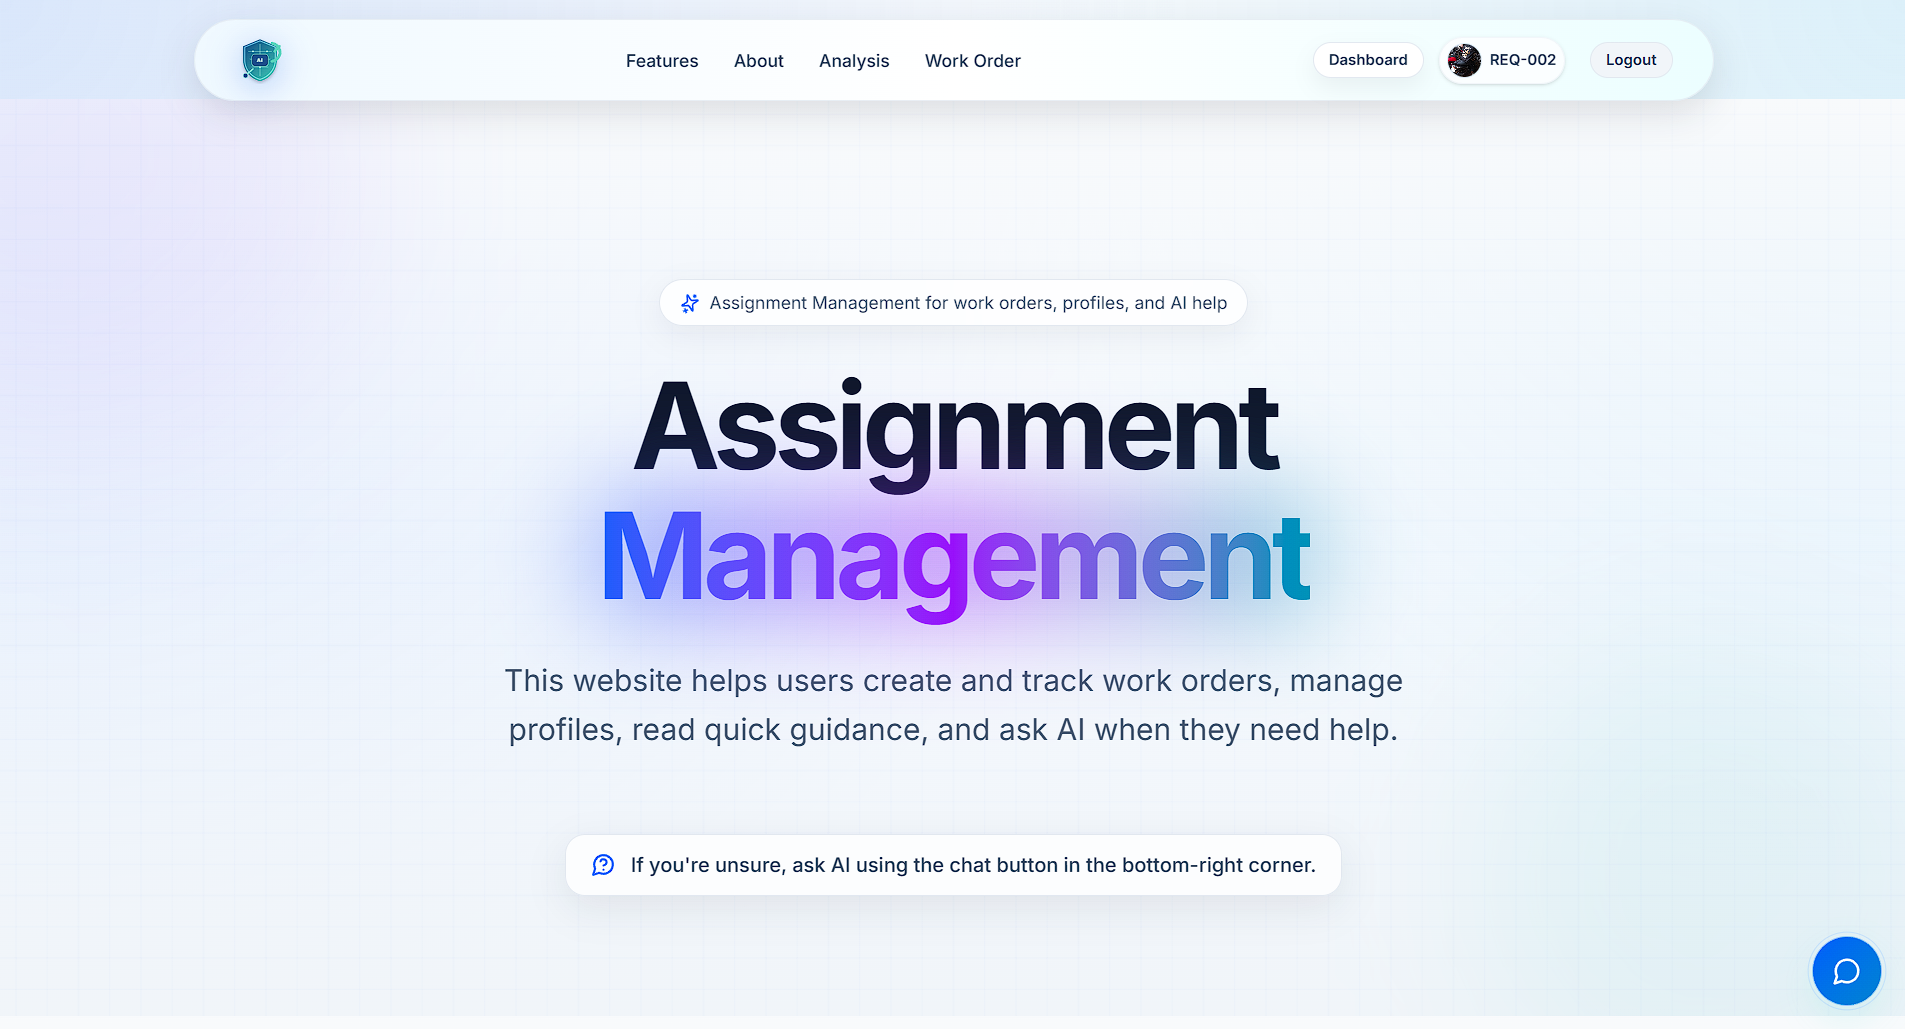
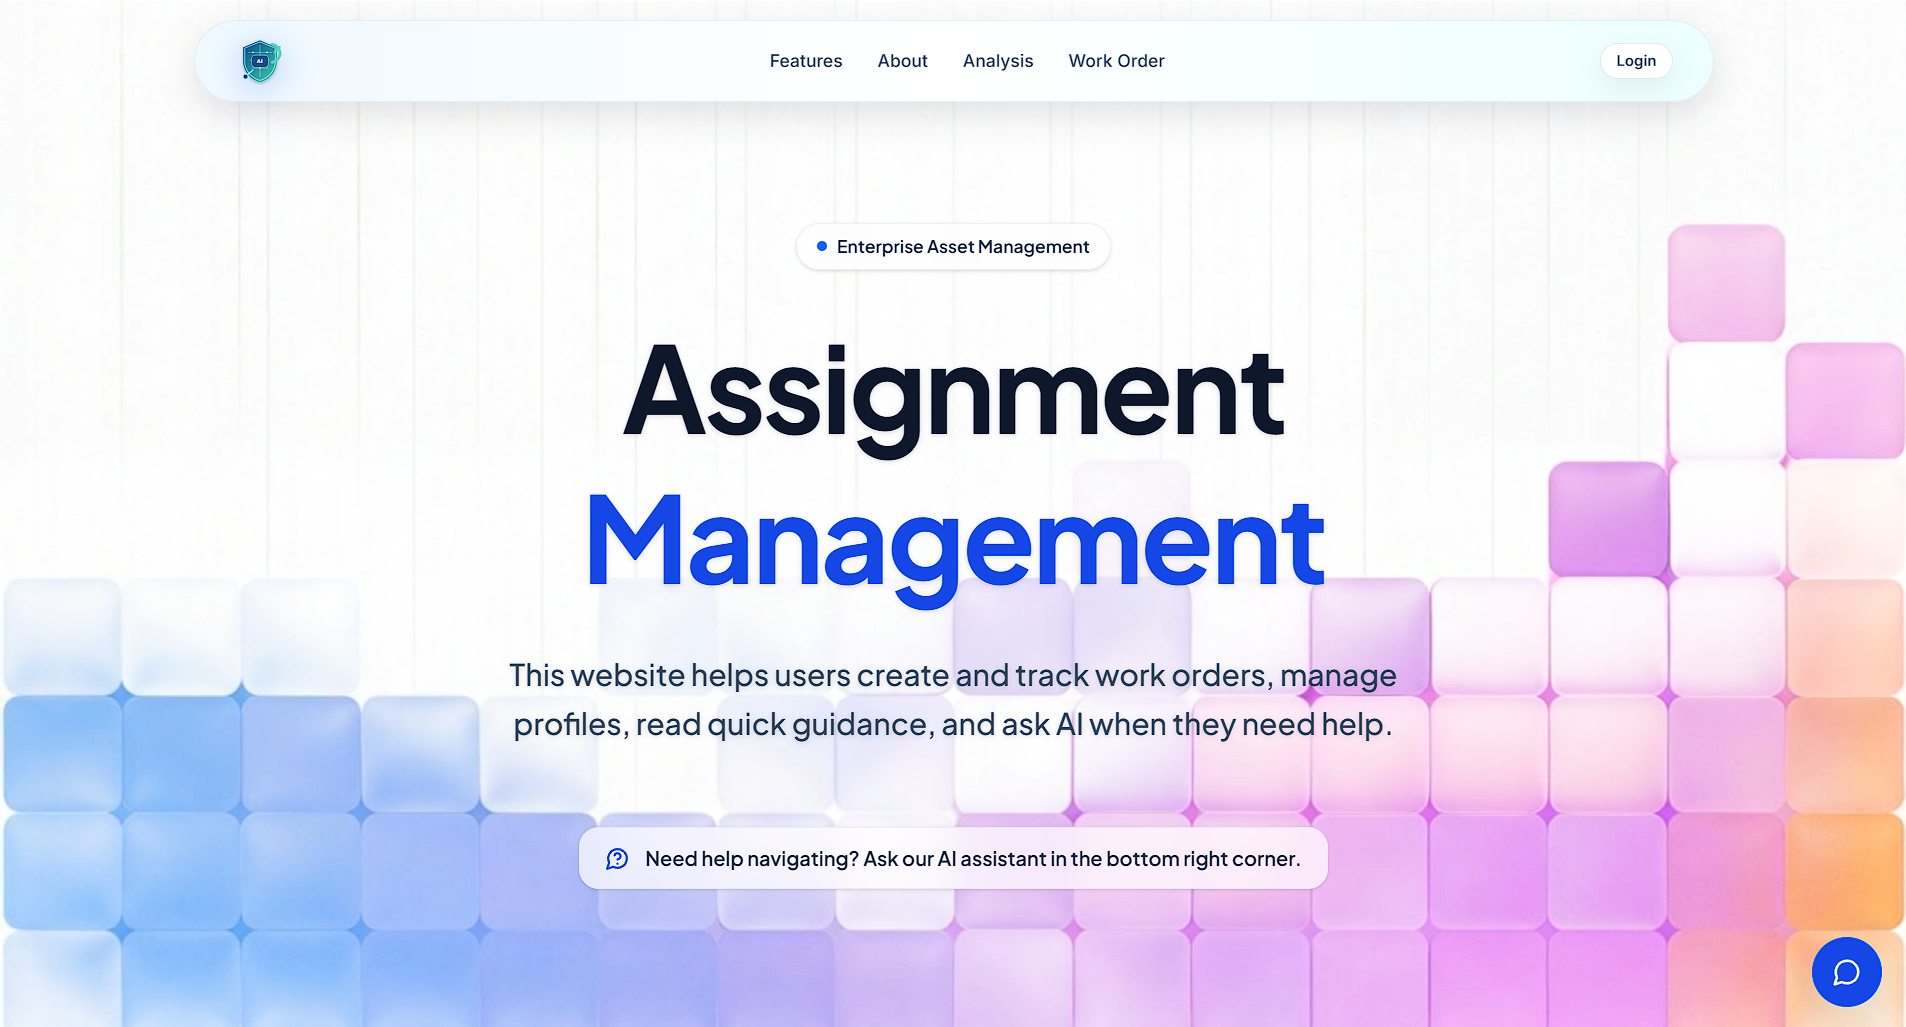
update sertifikat & elevra section

diff --git a/src/app/page.tsx b/src/app/page.tsx
@@ -2,7 +2,7 @@
 
 import { useState, useEffect } from "react";
 import Image from "next/image";
-import { Menu, X, ArrowRight, Zap, Sparkles, Plus, Cloud, Mail } from "lucide-react";
+import { Menu, X, ArrowRight, Zap, Sparkles, Plus, Cloud, Mail, FileText } from "lucide-react";
 import ScrollRevealText from "../components/ScrollRevealText";
 
 interface Project {
@@ -12,6 +12,13 @@ interface Project {
   detailImage?: string;
   tags: string[];
   description: string;
+}
+
+interface Certificate {
+  id: number;
+  title: string;
+  file: string;
+  type: "image" | "pdf";
 }
 
 const projects: Project[] = [
@@ -227,12 +234,42 @@ const cloudProjects: Project[] = [
   }
 ];
 
+const certificates: Certificate[] = [
+  { id: 1, title: "Finalis Web Programming - SMART TELKOM", file: "/Sertifikat/SMART TELKOM FINALIS_Web Programing.jpg", type: "image" },
+  { id: 2, title: "Sefest Web Design", file: "/Sertifikat/Sefest Web Design-Radhiyya Alea Akbar.png", type: "image" },
+  { id: 3, title: "Juara 1 Pionering Tegak Tangguh", file: "/Sertifikat/Juara1PioneringLombaTegakTangguh.PNG", type: "image" },
+  { id: 4, title: "Lomba Baris Berbaris Pandawa - Juara Perintis 2", file: "/Sertifikat/Lomba Baris Berbaris Pandawa - Juara Perintis 2.png", type: "image" },
+  { id: 5, title: "Lomba Baris Berbaris Sejati - Juara Bina 2", file: "/Sertifikat/Lomba Baris Berbaris Sejati- Juara Bina 2.png", type: "image" },
+  { id: 6, title: "Olimpiade Informatika OSN 2025", file: "/Sertifikat/Olimpiade_Informatika - OSN 2025_page-0001.jpg", type: "image" },
+  { id: 7, title: "Olimpiade Informatika OSSN 2025", file: "/Sertifikat/Olimpiade_Informatika - OSSN 2025_page-0001.jpg", type: "image" },
+  { id: 8, title: "Olimpiade Informatika KOMPAS 2025", file: "/Sertifikat/Olimpiade_Informatika - KOMPAS 2025_page-0001.jpg", type: "image" },
+  { id: 9, title: "Olimpiade PKN OSN 2025", file: "/Sertifikat/Olimpiade_PKN - OSSN 2025 (1)_page-0001.jpg", type: "image" },
+  { id: 10, title: "Olimpiade PKN KOMPAS 2025", file: "/Sertifikat/Olimpiade_PKN - KOMPAS 2025_page-0001 (2).jpg", type: "image" },
+  { id: 11, title: "Olimpiade Sejarah OSN 2025", file: "/Sertifikat/Olimpiade_Sejarah - OSN 2025_page-0001.jpg", type: "image" },
+  { id: 12, title: "Olimpiade Sejarah KOMPAS 2025", file: "/Sertifikat/Olimpiade_Sejarah - KOMPAS 2025_page-0001.jpg", type: "image" },
+  { id: 13, title: "Coursera: AWS S3 Basic", file: "/Sertifikat/Coursera Aws S3 Basic Certificates.jpg", type: "image" },
+  { id: 14, title: "Coursera: Build App With Google Sheets On Glide", file: "/Sertifikat/Coursera Build App With Google Sheets On Glide Certificates.jpg", type: "image" },
+  { id: 15, title: "Coursera: Build a Full Website Using Wordpress", file: "/Sertifikat/Coursera Build a Full Website Using Wordprees Certificates.jpg", type: "image" },
+  { id: 16, title: "Coursera: Google Ads", file: "/Sertifikat/Coursera Google Ads Certificates.jpg", type: "image" },
+  { id: 17, title: "Coursera: Microsoft Excel", file: "/Sertifikat/Coursera Microsoft Excel Certificates.jpg", type: "image" },
+  { id: 18, title: "Coursera: SEO Optimization", file: "/Sertifikat/Coursera SEO Optimazion Certificates.jpg", type: "image" },
+  { id: 19, title: "Pelatihan Artificial Intelligence", file: "/Sertifikat/Pelatihan Artifisial Intelegent.jpg", type: "image" },
+  { id: 20, title: "Pelatihan Cyber Security", file: "/Sertifikat/Sertifikat Attendance Pelatihan Cyber Security.pdf.png", type: "image" },
+  { id: 21, title: "Microsoft Azure", file: "/Sertifikat/Microsoft Azure Certificates.pdf", type: "pdf" },
+  { id: 22, title: "Computational Thinking", file: "/Sertifikat/Sertifikat_RADHIYYA ALEA AKBAR_Computational Thinking _ Cara Berpikir Logis untuk Mengatasi Masalah (Jenjang SMA).pdf", type: "pdf" },
+  { id: 23, title: "Dasar-Dasar Implementasi Kecerdasan Artifisial", file: "/Sertifikat/Sertifikat_RADHIYYA ALEA AKBAR_Dasar-Dasar Implementasi Kecerdasan Artifisial.pdf", type: "pdf" },
+  { id: 24, title: "Memahami Aspek Pengembangan Produk AI", file: "/Sertifikat/Sertifikat_RADHIYYA ALEA AKBAR_Memahami Aspek Pengembangan Produk AI.pdf", type: "pdf" },
+  { id: 25, title: "Wordpress Certificates", file: "/Sertifikat/Wordpress Certivicates.pdf", type: "pdf" },
+];
+
 export default function Home() {
   const [isMobileMenuOpen, setIsMobileMenuOpen] = useState(false);
   const [selectedProject, setSelectedProject] = useState<Project | null>(null);
   const [showAllProjects, setShowAllProjects] = useState(false);
   const [showAllCloud, setShowAllCloud] = useState(false);
   const [activeTab, setActiveTab] = useState<"website" | "cloud">("website");
+  const [showAllCertificates, setShowAllCertificates] = useState(false);
+  const [selectedCertificate, setSelectedCertificate] = useState<Certificate | null>(null);
 
   useEffect(() => {
     const observer = new IntersectionObserver(
@@ -249,10 +286,11 @@ export default function Home() {
 
     document.querySelectorAll(".reveal-animate").forEach((el) => observer.observe(el));
     return () => observer.disconnect();
-  }, [showAllProjects, showAllCloud, activeTab]);
+  }, [showAllProjects, showAllCloud, activeTab, showAllCertificates]);
 
   const displayedProjects = showAllProjects ? projects : projects.slice(0, 6);
   const displayedCloudProjects = showAllCloud ? cloudProjects : cloudProjects.slice(0, 6);
+  const displayedCertificates = showAllCertificates ? certificates : certificates.slice(0, 6);
 
   const techStack = [
     { name: "HTML", icon: "https://cdn.simpleicons.org/html5/E34F26" },
@@ -747,6 +785,69 @@ export default function Home() {
       </section>
 
       {/* About Me Section */}
+      {/* Certificates Section */}
+      <section id="certificates" className="relative w-full max-w-[1300px] px-6 lg:px-16 mx-auto pt-12 pb-32 flex flex-col items-center justify-center z-20">
+        <h3 className="text-2xl md:text-3xl font-playfair italic font-medium text-slate-800 mb-2 reveal-animate opacity-0 translate-y-12 transition-all duration-1000">
+          Achievements
+        </h3>
+        <h2 className="text-4xl md:text-[3.5rem] font-outfit font-medium tracking-tight text-slate-900 mb-16 reveal-animate opacity-0 translate-y-12 transition-all duration-1000 delay-[200ms]">
+          My Certificates
+        </h2>
+
+        <div className="grid grid-cols-1 md:grid-cols-2 lg:grid-cols-3 gap-8 w-full">
+          {displayedCertificates.map((cert, index) => (
+            <div 
+              key={cert.id} 
+              onClick={() => setSelectedCertificate(cert)}
+              className={`reveal-animate opacity-0 translate-y-12 transition-all duration-1000 cursor-pointer group flex flex-col`}
+              style={{ transitionDelay: `${(index % 3) * 150 + 100}ms` }}
+            >
+              <div className="relative bg-[#f6f7f9] border border-white/60 p-4 rounded-3xl shadow-[0_8px_30px_rgb(0,0,0,0.04)] transition-all duration-500 group-hover:shadow-[0_20px_40px_rgb(0,0,0,0.08)] group-hover:-translate-y-2 overflow-hidden">
+                <div className="relative w-full aspect-[4/3] rounded-2xl overflow-hidden bg-slate-200">
+                  {cert.type === "image" ? (
+                    <Image 
+                      src={cert.file} 
+                      alt={cert.title} 
+                      fill 
+                      className="object-cover transition-transform duration-700 group-hover:scale-105"
+                    />
+                  ) : (
+                    <div className="w-full h-full flex flex-col items-center justify-center bg-slate-100 group-hover:scale-105 transition-transform duration-700 text-slate-400">
+                      <FileText size={48} strokeWidth={1.5} className="mb-2 text-blue-400/70" />
+                      <span className="text-sm font-medium text-slate-500">PDF Document</span>
+                    </div>
+                  )}
+                  
+                  <div className="absolute inset-0 z-20 bg-slate-900/20 opacity-0 group-hover:opacity-100 transition-opacity duration-300 flex items-center justify-center">
+                    <div className="bg-white text-slate-900 px-6 py-3 rounded-full font-medium text-sm transform translate-y-4 opacity-0 group-hover:translate-y-0 group-hover:opacity-100 transition-all duration-300">
+                      View Certificate
+                    </div>
+                  </div>
+                </div>
+              </div>
+
+              <div className="mt-6 flex flex-col gap-2 px-2 text-center">
+                <h4 className="text-lg font-outfit font-semibold text-slate-900 group-hover:text-blue-600 transition-colors">
+                  {cert.title}
+                </h4>
+              </div>
+            </div>
+          ))}
+        </div>
+
+        {!showAllCertificates && certificates.length > 6 && (
+          <div className="mt-16 flex justify-center w-full">
+            <button 
+              onClick={() => setShowAllCertificates(true)}
+              className="reveal-animate opacity-0 translate-y-12 transition-all duration-1000 delay-[400ms] px-8 py-4 bg-slate-900 text-white rounded-full font-outfit font-medium hover:bg-blue-600 hover:shadow-[0_8px_30px_rgb(59,130,246,0.3)] hover:-translate-y-1 transition-all duration-300 flex items-center gap-2"
+            >
+              Show All
+              <ArrowRight size={18} />
+            </button>
+          </div>
+        )}
+      </section>
+
       <section id="about" className="relative w-full max-w-[1300px] px-6 lg:px-16 mx-auto pt-12 pb-32 flex flex-col items-center justify-center z-20">
         <h3 className="text-2xl md:text-3xl font-playfair italic font-medium text-slate-800 mb-2 reveal-animate opacity-0 translate-y-12 transition-all duration-1000">
           Who am i
@@ -830,6 +931,56 @@ export default function Home() {
         </div>
       </section>
 
+      {/* Elevra Promotion Section */}
+      <section id="services" className="relative w-full max-w-[1300px] px-6 lg:px-16 mx-auto pt-16 pb-32 flex flex-col items-center justify-center z-20 border-t border-slate-200/50">
+        <div className="flex flex-col-reverse lg:flex-row items-center gap-12 lg:gap-24 w-full max-w-[1100px] mx-auto">
+          
+          {/* Left: Text Promotion */}
+          <div className="w-full lg:w-[50%] reveal-animate opacity-0 translate-y-12 transition-all duration-1000 delay-[200ms] flex flex-col items-start text-left">
+            <h2 className="text-4xl md:text-5xl font-outfit font-medium tracking-tight text-slate-900 mb-6 leading-tight">
+              Bring Your Ideas to Life with <span className="font-playfair italic">Elevra Digitalera</span>
+            </h2>
+            <p className="text-[17px] md:text-lg text-slate-600 leading-relaxed font-outfit mb-10">
+              Need a professional, modern, and high-performing website? Elevra Digitalera offers premium web development services tailored to your business needs. Elevate your brand&apos;s digital presence today.
+            </p>
+            
+            <a 
+              href="https://elevra-digitalera.netlify.app/" 
+              target="_blank" 
+              rel="noopener noreferrer"
+              className="group flex items-center gap-3 px-8 py-4 bg-slate-900 text-white rounded-full font-outfit font-medium hover:bg-blue-600 hover:shadow-[0_8px_30px_rgb(59,130,246,0.3)] hover:-translate-y-1 transition-all duration-300"
+            >
+              Visit Elevra Digitalera
+              <ArrowRight size={18} className="group-hover:translate-x-1 transition-transform" />
+            </a>
+          </div>
+
+          {/* Right: Tilted Photo Frame */}
+          <div className="w-full lg:w-[50%] reveal-animate opacity-0 translate-y-12 transition-all duration-1000 delay-[400ms] lg:delay-[400ms]">
+            <a 
+              href="https://elevra-digitalera.netlify.app/"
+              target="_blank"
+              rel="noopener noreferrer"
+              className="block relative p-3 bg-white border border-slate-100 rounded-[2rem] shadow-[0_20px_50px_rgb(0,0,0,0.06)] transform rotate-3 hover:rotate-0 active:rotate-0 hover:shadow-[0_20px_50px_rgb(59,130,246,0.3)] active:shadow-[0_20px_50px_rgb(59,130,246,0.3)] transition-all duration-500 group"
+            >
+              <div className="relative p-2 border-2 border-slate-100 rounded-3xl bg-white overflow-hidden">
+                <div className="relative w-full aspect-[4/3] md:aspect-[16/10] rounded-2xl overflow-hidden bg-slate-200">
+                  <Image 
+                    src="/ELEVRA-LANDINGPAGE.png" 
+                    alt="Elevra Digitalera Landing Page" 
+                    fill 
+                    className="object-cover transition-transform duration-700 group-hover:scale-105" 
+                  />
+                  {/* Subtle Glow Overlay */}
+                  <div className="absolute inset-0 bg-blue-400/0 group-hover:bg-blue-400/10 transition-colors duration-500"></div>
+                </div>
+              </div>
+            </a>
+          </div>
+
+        </div>
+      </section>
+
       {/* Project Modal */}
       {selectedProject && (
         <div className="fixed inset-0 z-[100] flex items-center justify-center p-4">
@@ -857,6 +1008,49 @@ export default function Home() {
               </div>
               <h3 className="text-3xl sm:text-4xl font-outfit font-semibold text-slate-900 mb-6">{selectedProject.title}</h3>
               <p className="text-slate-600 text-[15px] leading-relaxed max-w-2xl">{selectedProject.description}</p>
+            </div>
+          </div>
+        </div>
+      )}
+
+      {/* Certificate Modal */}
+      {selectedCertificate && (
+        <div className="fixed inset-0 z-[100] flex items-center justify-center p-4">
+          <div className="absolute inset-0 bg-slate-900/40 backdrop-blur-sm transition-opacity" onClick={() => setSelectedCertificate(null)}></div>
+          <div className="relative bg-white w-full max-w-4xl rounded-[2rem] overflow-hidden shadow-2xl z-10 animate-fade-in-up flex flex-col max-h-[90vh]">
+            <button onClick={() => setSelectedCertificate(null)} className="absolute top-4 right-4 z-20 bg-white/80 hover:bg-white backdrop-blur-md p-2 rounded-full transition-all shadow-sm">
+              <X size={20} className="text-slate-800" />
+            </button>
+            <div className="w-full relative bg-slate-100 shrink-0 flex items-center justify-center p-8 min-h-[50vh]">
+              {selectedCertificate.type === "image" ? (
+                <Image
+                  src={selectedCertificate.file}
+                  alt={selectedCertificate.title}
+                  width={1200}
+                  height={800}
+                  className="w-full h-auto max-h-[75vh] object-contain shadow-md rounded-xl"
+                />
+              ) : (
+                <div className="w-full h-full flex flex-col items-center justify-center">
+                  <iframe 
+                    src={`${selectedCertificate.file}#view=FitH`} 
+                    className="w-full h-[75vh] rounded-xl shadow-md bg-white border-0 hidden md:block" 
+                    title={selectedCertificate.title}
+                  />
+                  <div className="w-full md:hidden flex flex-col items-center justify-center py-12 px-4 bg-white rounded-xl shadow-sm border border-slate-200">
+                    <FileText size={64} className="text-blue-500 mb-4" />
+                    <h4 className="text-xl font-semibold text-slate-800 mb-2 text-center">PDF Document</h4>
+                    <p className="text-slate-500 mb-8 text-center text-sm px-4">Tap the button below to open and view the PDF document in your browser.</p>
+                    <a href={selectedCertificate.file} target="_blank" rel="noopener noreferrer" className="px-8 py-3 bg-blue-600 text-white rounded-full font-medium hover:bg-blue-700 transition-all shadow-md flex items-center gap-2 active:scale-95">
+                      <FileText size={18} />
+                      Open PDF Document
+                    </a>
+                  </div>
+                </div>
+              )}
+            </div>
+            <div className="p-6 sm:p-8 bg-white border-t border-slate-100 text-center">
+              <h3 className="text-2xl sm:text-3xl font-outfit font-semibold text-slate-900">{selectedCertificate.title}</h3>
             </div>
           </div>
         </div>